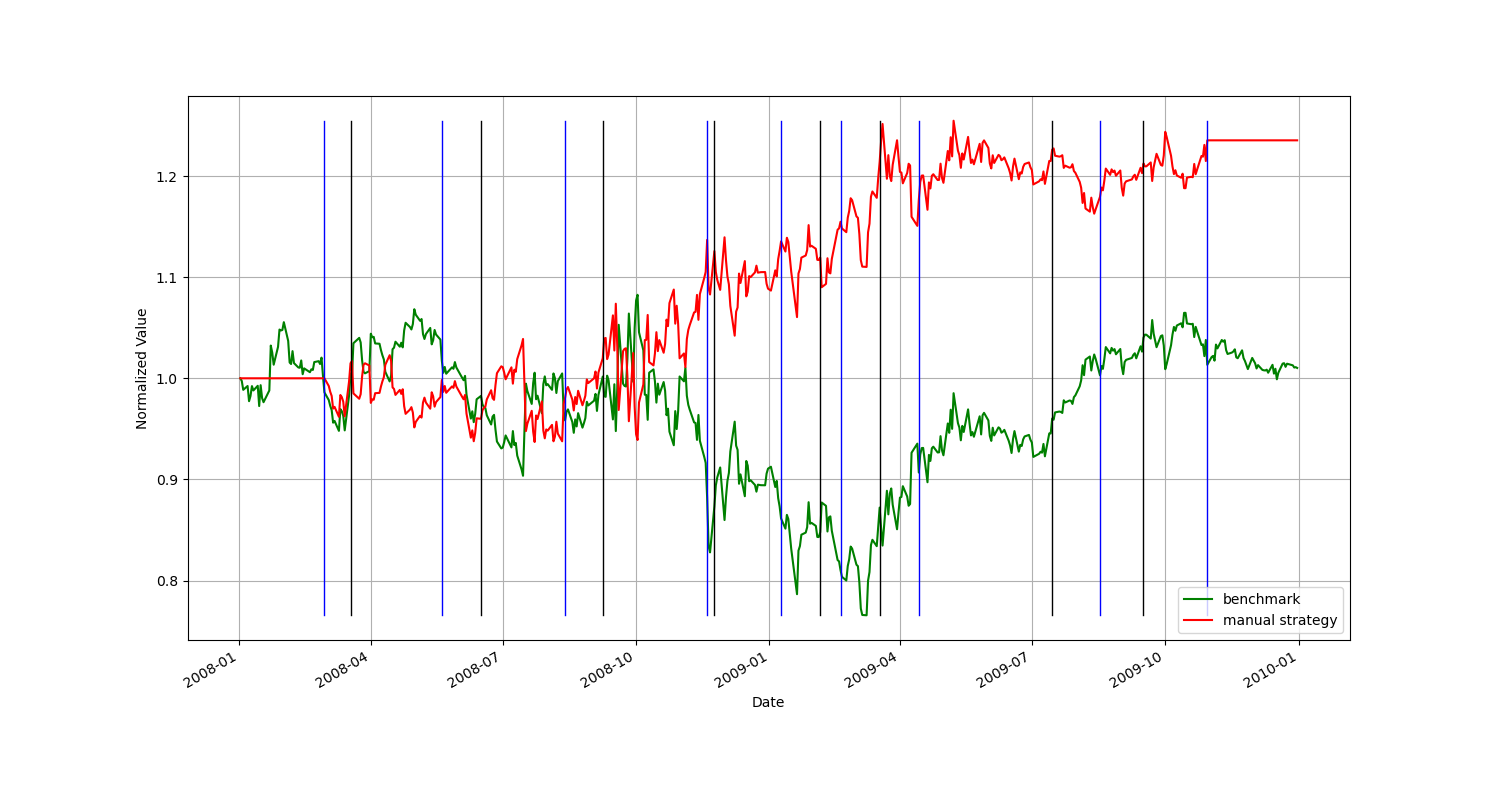
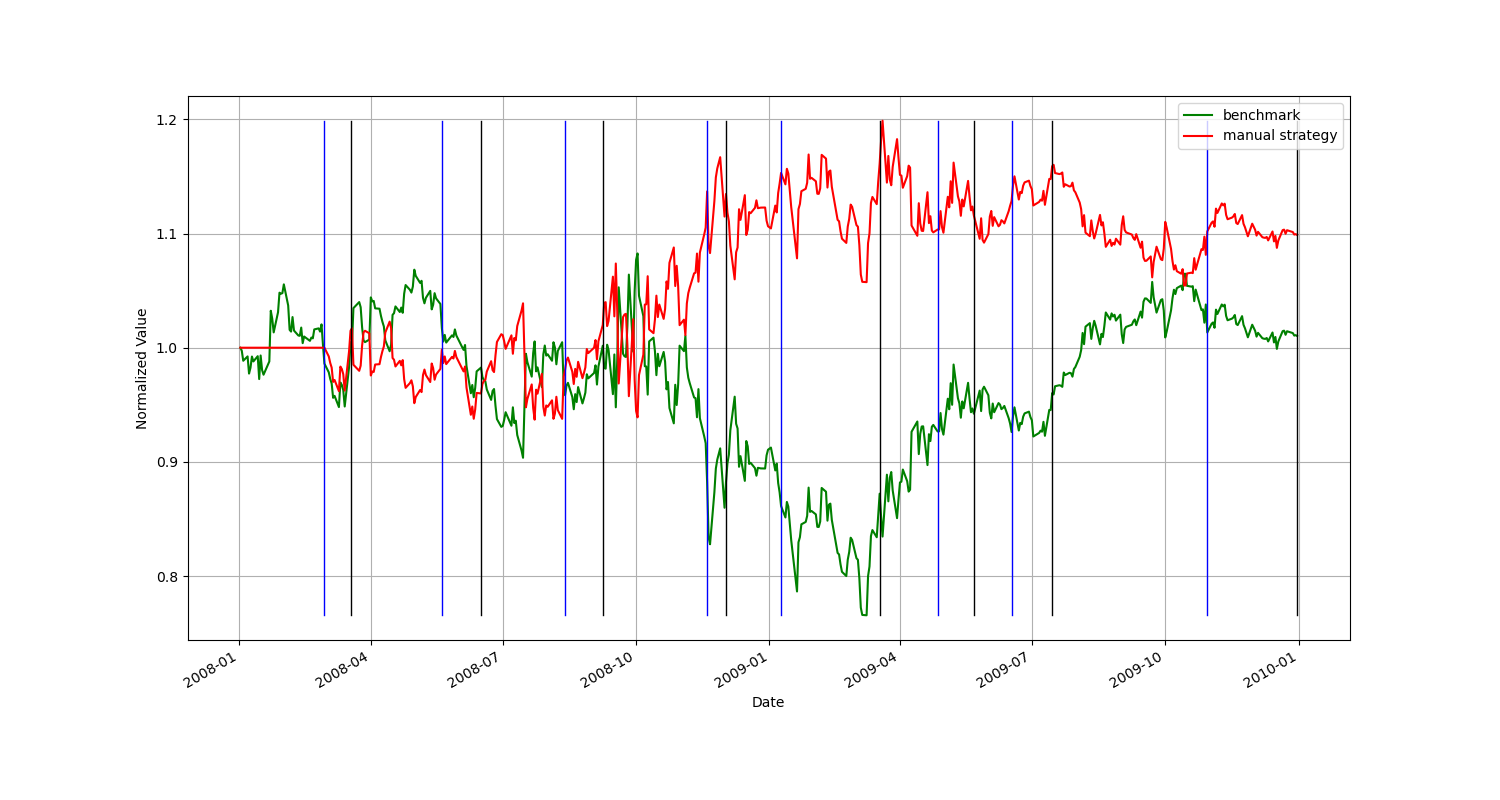
more minor fixes proj8

diff --git a/strategy_evaluation/ManualStrategy.py b/strategy_evaluation/ManualStrategy.py
@@ -48,9 +48,9 @@ class ManualStrategy:
         #         signal.append(1)
         #     if self.sma20['SMA'][prev_date] > self.sma50['SMA'][prev_date] and self.sma20['SMA'][date] < self.sma50['SMA'][date]:
         #         signal.append(-1)
-        if self.sma20['SMA'][date] - self.sma50['SMA'][date] > 0.5:
+        if self.sma20['SMA'][date] - self.sma50['SMA'][date] > 0.7:
             signal.append(1)
-        elif self.sma20['SMA'][date] - self.sma50['SMA'][date] < -0.5:
+        elif self.sma20['SMA'][date] - self.sma50['SMA'][date] < -0.7:
             signal.append(-1)
 
         # check Bollinger Band
@@ -106,8 +106,8 @@ class ManualStrategy:
             prev_date = date
 
         # cover final position
-        # output['Date'].append(all_dates[-1])
-        # output['Trade'].append(-current_position)
+        output['Date'].append(ed)
+        output['Trade'].append(-current_position)
         # current_position = 0
 
         df_trades = pd.DataFrame(data=output['Trade'], index=output['Date'], columns=[symbol])

diff --git a/strategy_evaluation/experiment2.py b/strategy_evaluation/experiment2.py
@@ -47,7 +47,7 @@ def run():
 	output = pd.DataFrame([vals_bm['benchmark'], output_df_list[0]['impact: '+str(impacts[0])], output_df_list[1]['impact: '+str(impacts[1])], output_df_list[2]['impact: '+str(impacts[2])], output_df_list[3]['impact: '+str(impacts[3])]]).transpose()
 	output = output.fillna(method='ffill')
 	output = output.fillna(method='bfill')
-	output_plot = output.plot(figsize=(12,8))
+	output_plot = output.plot(figsize=(10,8))
 	output_plot.set_xlabel('Date')
 	output_plot.set_ylabel('Normalized Value')
 	output_plot.grid(b=True, which='both', axis='both')

diff --git a/strategy_evaluation/experiment1.py b/strategy_evaluation/experiment1.py
@@ -49,7 +49,7 @@ def run():
 	output = pd.DataFrame([vals_bm['benchmark'], vals_man['manual strategy'], vals_sl['strategy learner']]).transpose()
 	output = output.fillna(method='ffill')
 	output = output.fillna(method='bfill')
-	output_plot = output.plot(figsize=(12,8))
+	output_plot = output.plot(figsize=(10,8))
 	output_plot.set_xlabel('Date')
 	output_plot.set_ylabel('Normalized Value')
 	output_plot.grid(b=True, which='both', axis='both')

diff --git a/strategy_evaluation/StrategyLearner.py b/strategy_evaluation/StrategyLearner.py
@@ -213,8 +213,9 @@ class StrategyLearner(object):
                     output['Trade'].append(trade)
 
 
-        # output['Trade'] = []
-        # output['Date'] = []
+        # cover final position
+        output['Date'].append(ed)
+        output['Trade'].append(-self.position)
 
         trades = pd.DataFrame(data=output['Trade'], index=output['Date'], columns=[symbol])
 

diff --git a/strategy_evaluation/testproject.py b/strategy_evaluation/testproject.py
@@ -37,7 +37,7 @@ if __name__ == "__main__":
 	in_test_val = in_test.values
 	out_test_val = out_test.values
 	plt.clf()
-	plt.figure(figsize=(15,8))
+	plt.figure(figsize=(10,8))
 	plt.plot(in_test_val)
 	plt.plot(out_test_val)
 	plt.legend(['In-sample performance', 'Out-of-sample performance'])
